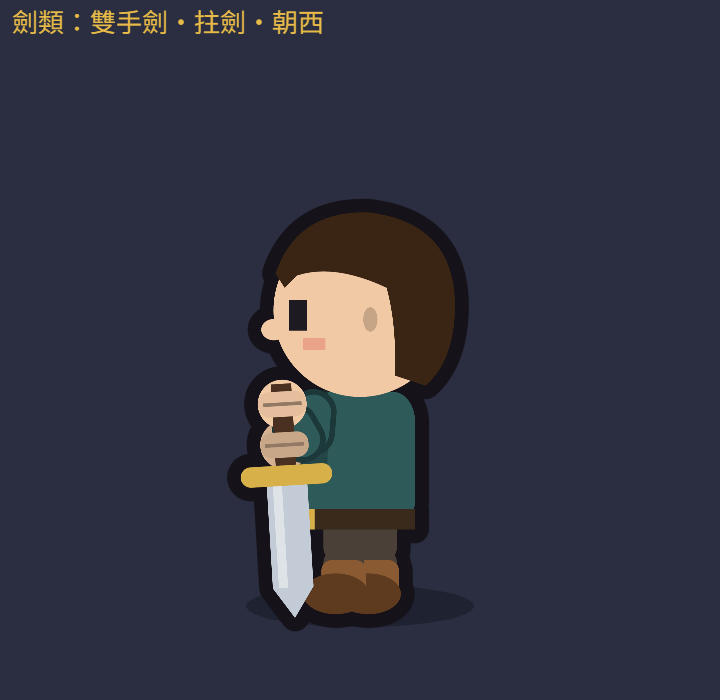
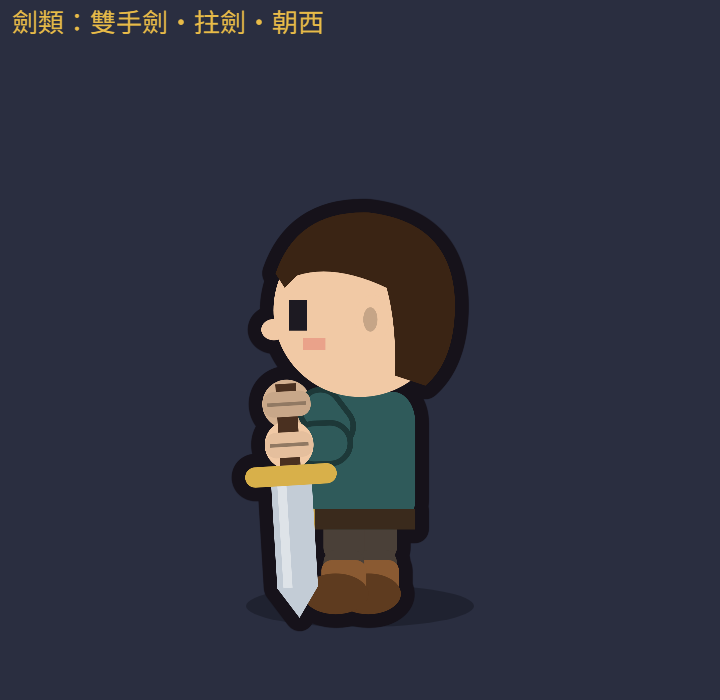
docs(art): Q v14 — plant west mirrors east grip, near hand on lower grip

Changed region(s): [[0.3056, 0.54, 0.5194, 0.9]]

diff --git a/docs/art/sample/qDoll.js b/docs/art/sample/qDoll.js
@@ -596,7 +596,10 @@ window.QDoll = (() => {
       /* 第 14 版：正面、背面兩手往下 2.4（審查：「上手和下巴同色黏成一團、握柄頂端頂到下巴」）：上手頂和下巴之間露出衣服；劍身改短一點（"f"：劍身 11.7），劍尖仍落在地面線（y ≈ +1.3） */
       front: { hand: [-0.5, -13.4], a: Math.PI, og: [0, 3.2], short: "f" },          // 副手在上 (−0.5,−16.6)
       back: { hand: [0.5, -13.4], a: Math.PI, og: [0, 3.2], short: "f" },            // 手和劍柄在身前被擋住，只在兩腳之間露出劍尖
-      side: { hand: [7.4, -15.8], a: Math.PI + 0.06, og: [0, 4], short: true },       // 兩手前後分開握（使用者看出「兩手疊成一團」）：下手 (7.4,−15.8)、上手在上 4（離下巴約 1 單位）
+      side: { hand: [7.4, -15.8], a: Math.PI + 0.06, og: [0, 4], short: true },
+      /* 第 14 版：朝西照朝東的鏡像握法：近側左手握下面、遠側右手握上面（mg 4：主手握在劍柄上段，劍的位置不變）。
+         原本近側左手握上面，前臂從下面繞上來、壓過遠側下拳，圖層怎麼畫都不對（審查：「r01 朝西遠側下拳蓋在近側前臂上面」） */
+      sideW: { hand: [7.2, -19.8], a: Math.PI + 0.06, og: [0, 0], mg: 4, short: true },       // 兩手前後分開握（使用者看出「兩手疊成一團」）：下手 (7.4,−15.8)、上手在上 4（離下巴約 1 單位）
       atk: GS_ATK,
     },
     /* 第 13 版：扛肩改成單手（使用者：「雙手劍扛肩膀的時候就只會用一隻手了」）：右手在右胸前握柄，劍身靠在右肩上往後上方伸；左手自然垂下。護手離開下巴 */

diff --git a/docs/art/關鍵姿勢檢查紀錄.md b/docs/art/關鍵姿勢檢查紀錄.md
@@ -64,6 +64,10 @@
    - 我看到：`r01_gs-plant_east`、`i15_*` 兩隻拳頭各有一條四指，劍柄從兩拳之間和上下穿出，拳頭邊緣沒有淡色點或缺角；`r01_gs-plant_west` 下面那隻遠側拳頭的四指在拳頭裡，拳頭畫在近側前臂上面（和劍柄一樣在近側手臂之後畫）。
    - 這輪改到：`r01_gs-plant_east`、`_west`、`i15_greatsword_start`、`_mid`；樣張 `key-poses.png`、`style-compare-3.png`、`idle-weapons.png`。其他特寫和樣張逐位元組相同；`lockcheck.py` 14／14。
 
+6. **`r01_gs-plant_west` 圖層（審查第四輪）**：原本近側左手握上面，前臂從下面繞上來、壓過遠側下拳，圖層怎麼畫都不對。改成照朝東的鏡像握法（`KEY.greatsword.sideW`）：**近側左手握下面、遠側右手握上面**（主手握在劍柄上段 `mg 4`，劍的位置、劍尖高度不變）。近側前臂水平伸到下拳，不再經過遠側的拳頭，不用補畫也不用挖洞。
+   - 我看到：上面是遠側右拳（暗一階）、下面是近側左拳，各有一條四指，劍柄從兩拳之間和上下穿出；近側綠袖從身體水平接到下拳；兩拳之間劍柄左側沒有綠色細縫（右側邊緣有 1～2px 後面的袖子）。劍尖仍在鞋底線（3 倍特寫最低 616，鞋底 613）。
+   - 這輪只改到 `key/r01_gs-plant_west`；樣張 `key-poses.png`、`style-compare-3.png`。其他特寫和樣張逐位元組相同；`lockcheck.py` 14／14；自測 147／147。
+
 ## 三、改前後比對
 
 - **畫面變了（不畫外框時也不同）的 25 張**，全部在解鎖範圍：`key/b1`、`b2`、`b3`、`i06_*`（2）、`i07_*`（2）、`i12_*`（2）、`r01_gs-plant_front`、`_back`、`r03_*`（4）、`r04_*`（4）、`r05_bow_back`、`_east`、`_west`、`r08_staff_back`、`r10_staff-book_back`、`parts/s11_05`。
